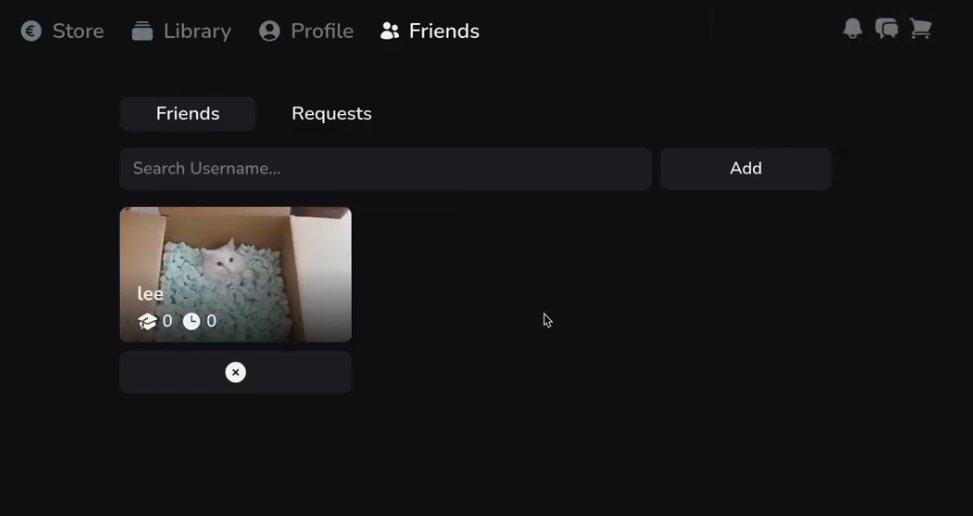
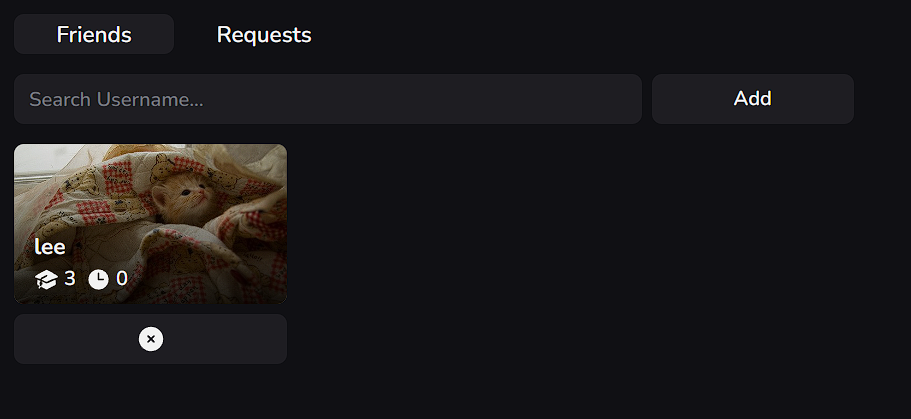
chore: update project entries, replace moko-games.md with updated content and adjust links

diff --git a/portfolio-site/src/content/projects/moko-games.md b/portfolio-site/src/content/projects/moko-games.md
@@ -1,0 +1,117 @@
+---
+title: "Moko Games"
+shortDescription: "DDD-driven microservices platform for buying, playing and socializing around digital board games."
+description: "Course project (Integration Project 3) built in cross-discipline teams. We designed and implemented a DDD microservices platform where users can purchase digital board games, play with friends (or AI), and use social + chat features in one place."
+pubDate: "2025-12-20"
+heroImage: "../../assets/moko/moko-header.png"
+techStack:
+  - Java 21
+  - Spring Boot
+  - Domain-Driven Design
+  - RabbitMQ
+  - Microservices
+  - PostgreSQL
+  - Keycloak
+  - React
+  - Docker
+  - Kubernetes
+  - Websockets
+role: "Fullstack Developer / Architect"
+features:
+  - "Store & Library management"
+  - "Profiles, friends & social features"
+  - "Real-time lobby, chat & notifications"
+  - "Multiplayer + AI opponents"
+  - "AI chatbot integration"
+repoUrl: "https://github.com/Coupeke1/moko-games"
+year: 2025
+---
+
+## One-line summary
+
+Moko is a unified platform to buy, play, and socialize around digital board games — built as a DDD microservices project during Integration Project 3.
+
+---
+
+## Team & contacts
+
+I worked on Moko together with:
+- Lee — https://leeco.dev/
+- Kaj — https://niceduck.dev/
+- Matti — teammate (backend)
+
+Our DevOps contact for the environment and deployment setup was Kevin.
+
+---
+
+## What we set out to solve
+
+Players today switch between store pages, chat apps, and game clients. We wanted a single place where users can:
+- discover and purchase digital board games,
+- play synchronously with friends or against an AI,
+- keep a social profile, stats, and notifications without leaving the platform.
+
+---
+
+## Core features
+
+- Store & Library: browse catalog, purchase, and manage owned games.  
+- Social: profiles, friend lists, and private conversations.  
+- Multiplayer: create lobbies, invite friends, play Tic Tac Toe, Checkers, and a Chess prototype (This works through a custom Anti-corruption layer).  
+- Real-time comms: lobby chat, in-game chat, and system notifications implemented over WebSockets through a gateway service.  
+- AI: chatbot integration to support users and AI opponents for single-player games.
+
+---
+
+## Architecture & technical choices
+
+We chose a Domain-Driven Design + microservices approach so multiple teams could work independently, and it would be easier to scale individual services later on.
+
+Highlights:
+- Bounded contexts per domain (store, library, profiles, lobby, games).  
+- Event-driven integration using RabbitMQ for eventual consistency.  
+- Identity and auth via Keycloak.  
+- WebSocket gateway to route real-time messages across services.  
+- Docker (and Kubernetes for deployment) for reproducible environments.
+
+---
+
+## Frontend approach
+
+Built with React + Tailwind; state and data handled via Zustand and Axios. We followed a package-by-feature structure and created a small component library from the start to keep the UI consistent.
+
+Example tree (package-by-feature):
+- src/app.tsx
+- src/components/...
+- src/features/...(cart, chat, checkout, friends, games, library, lobby, notifications, profiles, store)
+- src/lib/...(api-client, socket-client, format, id helpers)
+
+---
+
+## Testing & local development
+
+- ~90% coverage with unit and integration tests.  
+- Running all JVM services locally was resource heavy, so we prepared a Docker-based local dev environment to run most services without heavy IDE usage and use host.docker.internal for service communication.
+
+---
+
+## Lessons learned
+
+- Microservices enabled parallel work across teams but introduced coordination overhead.  
+- Early design and conventions helped other teams integrate smoothly.  
+- Cross-team communication (AI/DevOps) is an area for improvement — having a named DevOps contact (Kevin) helped accelerate environment setup.  
+- Docker is essential for a multiservice development workflow.
+
+---
+
+---
+
+## Demo & screenshots
+
+### Demo video
+<iframe width="100%" height="420" src="https://www.youtube-nocookie.com/embed/cTVb87V25zY" title="Moko Games demo" style="border: none;" allow="accelerometer; autoplay; clipboard-write; encrypted-media; gyroscope; picture-in-picture; web-share" allowfullscreen></iframe>
+
+### Screenshots
+![Store page](../../assets/moko/moko-store.png)  
+![Friends page](../../assets/moko/moko-friends.png)  
+![Tic Tac Toe](../../assets/moko/moko-game-view.png)

diff --git a/portfolio-site/src/content/projects/portfolio.md b/portfolio-site/src/content/projects/portfolio.md
@@ -16,7 +16,7 @@ features:
   - "SEO, OpenGraph, sitemap"
   - "Dark mode toggle, accessible (WCAG 2.1)"
 repoUrl: "https://github.com/Coupeke1/portfolio-site"
-liveUrl: "https://your-portfolio.example"
+liveUrl: "https://mathiasm.dev/"
 year: 2025
 ---
 

diff --git a/portfolio-site/src/content/projects/burgerpanels.md b/portfolio-site/src/content/projects/burgerpanels.md
@@ -18,7 +18,6 @@ features:
   - "Razor views + API endpoints (no [FromBody])"
   - "Export & reporting"
 repoUrl: "https://github.com/Coupeke1/burgerpanels.org"
-liveUrl: "https://burgerpanels.org"
 year: 2024
 featured: true
 ---
